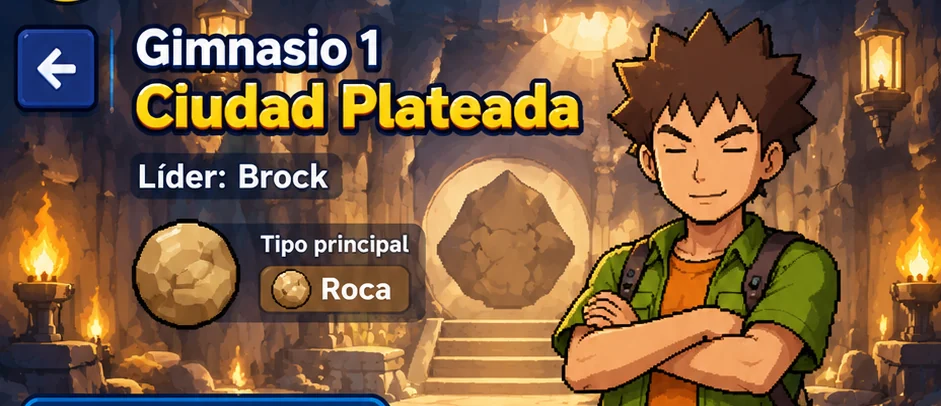
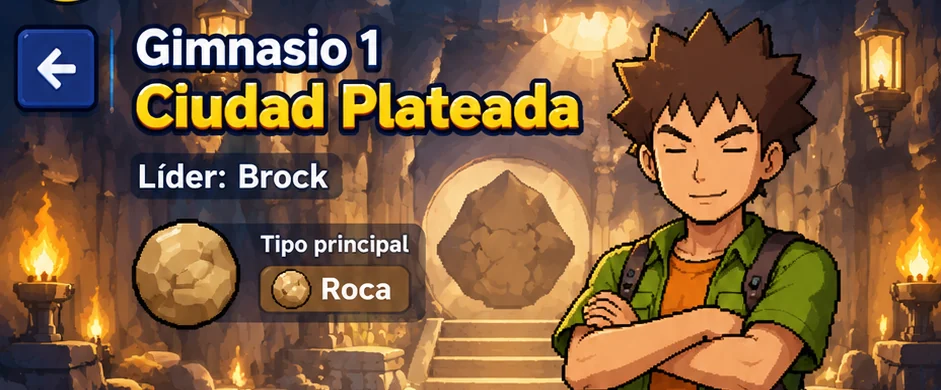
Portada calcada del diseño: nada superpuesto; solo se reescriben en su sitio los datos que cambian
- Ilustración intacta (pines, letrero, Entrar) con zonas táctiles invisibles
- Borrados y redibujados en el mismo lugar: medallas, barra, puntos de progreso de Brock y texto de Entrar
- Azulona con el mismo pin de candado del diseño
- Cielo para pantallas más altas; la ilustración nunca recorta los gimnasios

Claude-Session: https://claude.ai/code/session_016sqngmxqLz5nz8py6FyAyu

diff --git a/src/ui/screens/mapTab.ts b/src/ui/screens/mapTab.ts
@@ -29,6 +29,7 @@ const PINS: Record<string, [number, number]> = {
 };
 const box = (x: number, y: number, w: number, h: number) =>
   `left:${(x / ART.w) * 100}%;top:${(y / ART.h) * 100}%;width:${(w / ART.w) * 100}%;height:${(h / ART.h) * 100}%`;
+const dot = (cx: number, cy: number) => `left:${((cx - 6.5) / 193) * 100}%;top:${((cy - 6.5) / 200) * 100}%`;
 const at = (x: number, y: number) => `left:${(x / ART.w) * 100}%;top:${(y / ART.h) * 100}%`;
 
 export function renderMapTab(menu: MenuScreen): HTMLElement {
@@ -52,44 +53,51 @@ function renderHome(menu: MenuScreen, region: RegionDef): HTMLElement {
   const medals = (store.data.medals[region.id] ?? []).length;
   const next = region.gyms.find((g) => gymStatus(store, region, g) === 'available') ?? region.gyms.find((g) => gymStatus(store, region, g) === 'completed');
 
+  // Los pines dibujados en la ilustración se quedan tal cual; encima solo hay
+  // zonas táctiles invisibles. Si un gimnasio se desbloquea, su pin dibujado
+  // (con candado) se tapa con uno abierto.
   const pins = region.gyms.map((g) => {
     const st = gymStatus(store, region, g);
     const [x, y] = PINS[g.id] ?? [g.mapPos.x * ART.w, g.mapPos.y * ART.h];
     const open = st === 'available' || st === 'completed';
-    const city = g.id === 'brock' ? g.city : g.city.replace('Ciudad ', '');
-    if (open) {
+    const go = () => menu.go('gym', g.id);
+    if (g.id === 'brock') {
+      // Pin dibujado de Brock + sus puntos de progreso (redibujados en su sitio).
       const best = store.data.bestRoom[g.id] ?? 0;
       const rooms = roomSequence(store.data.settings.testMode);
-      const done = rooms.filter((r) => r <= best).length;
-      const boss = g.bosses[BALANCE.rooms.bossRoom];
-      return h('button', { class: `gpin open ${st} ${g.id === 'brock' ? 'baked' : ''}`, style: at(x, y), 'data-gym': g.id, onclick: () => menu.go('gym', g.id) },
-        // El retrato de Brock ya está en la ilustración; para los demás, su jefe.
-        h('span', { class: 'gpin-face' }, g.id !== 'brock' && boss ? pokeImg(BOSSES[boss].dex, 64) : null),
-        h('span', { class: 'gpin-name' }, city),
-        h('span', { class: 'gpin-dots' }, ...rooms.map((_, i) => h('i', { class: i < done ? 'on' : '' }))),
+      const lit = st === 'completed' ? 6 : Math.round((rooms.filter((r) => r <= best).length / rooms.length) * 6);
+      return h('button', { class: `hot ${st}`, style: box(205, 430, 193, 200), 'data-gym': g.id, 'aria-label': g.city, onclick: go },
+        ...[235, 260, 285, 312, 337, 362].map((cx, i) => h('i', { class: `bdot ${i < lit ? 'on' : ''}`, style: dot(cx - 205, 609 - 430) })),
       );
     }
-    return h('button', { class: 'gpin locked', style: at(x, y), 'data-gym': g.id, onclick: () => menu.go('gym', g.id) },
-      icon('lock', 30), h('span', {}, city));
+    if (open) {
+      const boss = g.bosses[BALANCE.rooms.bossRoom];
+      return h('button', { class: 'gpin open', style: at(x, y), 'data-gym': g.id, onclick: go },
+        h('span', { class: 'gpin-face' }, boss ? pokeImg(BOSSES[boss].dex, 64) : null),
+        h('span', { class: 'gpin-name' }, g.city.replace('Ciudad ', '')));
+    }
+    if (g.id === 'erika') {
+      // Azulona no está dibujada: mismo pin de candado que los demás.
+      return h('button', { class: 'drawn-lock', style: `${box(x - 55, y - 55, 110, 110)};background-image:url(ui/pin-locked.webp)`, 'data-gym': g.id, onclick: go },
+        h('span', {}, g.city.replace('Ciudad ', '')));
+    }
+    return h('button', { class: 'hot', style: box(x - 53, y - 52, 106, 104), 'data-gym': g.id, 'aria-label': g.city, onclick: go });
   });
 
   return h('div', { class: 'tab tab-home' },
     h('div', { class: 'home-stage' },
+      h('div', { class: 'home-sky', style: 'background-image:url(ui/home-sky.webp)' }),
       h('div', { class: 'home-art' },
         h('img', { class: 'home-img', src: 'ui/home-kanto.webp', alt: '', draggable: 'false' }),
-        h('h1', { class: 'sr-only' }, 'Pokécero'),
+        h('h1', { class: 'sr-only' }, `Pokécero · ${region.name}`),
+        // Letrero de la región: el texto y la barra de medallas, en su sitio exacto.
+        h('span', { class: 'medal-text', style: at(137, 291) }, `Medallas ${medals}/8`),
+        h('span', { class: 'medal-bar', style: box(137, 329, 214, 16) }, ...region.gyms.map((_, i) => h('i', { class: i < medals ? 'on' : '' }))),
         ...pins,
         next
-          ? h('button', { class: 'cta home-cta', style: box(245, 1110, 452, 140), 'data-testid': 'enter', onclick: () => menu.go('gym', next.id) },
-            h('span', { class: 'cta-main' }, 'Entrar'), h('span', { class: 'cta-sub' }, `${next.order}. ${next.city}`), h('span', { class: 'cta-arrow' }, '▶'))
+          ? h('button', { class: 'hot cta-hot', style: box(245, 1110, 452, 140), 'data-testid': 'enter', onclick: () => menu.go('gym', next.id) },
+            h('span', { class: 'cta-t1' }, 'Entrar'), h('span', { class: 'cta-t2' }, `${next.order}. ${next.city}`))
           : null,
-      ),
-      // Fuera de la ilustración: así no se corta si la pantalla es estrecha
-      // (tapa el letrero dibujado, que queda en el mismo sitio).
-      h('div', { class: 'region-pill2' },
-        icon('pokeball', 54),
-        h('span', { class: 'rp-text' }, h('b', {}, region.name), h('small', {}, `Medallas ${medals}/8`),
-          h('span', { class: 'rp-bar' }, ...region.gyms.map((_, i) => h('i', { class: i < medals ? 'on' : '' })))),
       ),
     ),
   );
@@ -138,7 +146,7 @@ function renderGym(menu: MenuScreen, region: RegionDef, gym: GymDef): HTMLElemen
       const claimed = isClaimed(store, gym.id, Number(room));
       return h('div', { class: `stop2 ${best >= Number(room) ? 'beaten' : ''}` },
         h('span', { class: 'stop2-room' }, `Sala ${room}`),
-        h('span', { class: 'stop2-mon' }, animatedPokemon(def.dex, 96, { dir: 0 })),
+        h('span', { class: 'stop2-mon' }, pokeImg(def.dex, 84)),
         h('span', { class: 'stop2-name' }, def.name),
         h('span', { class: 'stop2-ped' }),
         h('span', { class: `stop2-reward ${claimed ? 'claimed' : ''}` }, h('small', {}, 'Recompensa'),

diff --git a/src/ui/menu.css b/src/ui/menu.css
@@ -785,3 +785,44 @@
 .pk-left { margin: 0; padding: 0; background: none !important; }
 .pk-stage { height: 168px; border-radius: 14px; overflow: hidden; background-size: cover; background-position: 50% 85%; border: 2px solid #3a5ad8; }
 .pk-sprite { margin-bottom: 18px; }
+
+/* v0.4c: portada calcada del diseño. 1 px de la ilustración = 100cqw / 941. */
+.home-art { --px: calc(100cqw / 941); }
+.hot { position: absolute; padding: 0; border: none; background: none; color: inherit; font-family: var(--m-body); }
+.hot:focus-visible { outline: 3px solid #fff; outline-offset: 2px; border-radius: 12px; }
+.medal-text { position: absolute; font: 800 calc(31 * var(--px)) / 1 var(--m-body); color: #45d4f8; white-space: nowrap; pointer-events: none; }
+.medal-bar { position: absolute; display: flex; gap: calc(3 * var(--px)); pointer-events: none; }
+.medal-bar i { flex: 1; border-radius: calc(6 * var(--px)); background: #142446; box-shadow: inset 0 0 0 calc(2 * var(--px)) #060d22; }
+.medal-bar i.on { background: linear-gradient(#8aff6a, #2fc23a); box-shadow: inset 0 0 0 calc(2 * var(--px)) #0d4a12; }
+.bdot { position: absolute; width: 6.7%; height: 6.5%; border-radius: 50%; background: radial-gradient(circle at 40% 35%, #a8adbb, #5a6070); }
+.bdot.on { background: radial-gradient(circle at 40% 35%, #fff2a0, #f5b800); box-shadow: 0 0 calc(4 * var(--px)) #ffd23a; }
+.cta-hot .cta-t1, .cta-hot .cta-t2 { position: absolute; left: 0; right: calc(30 * var(--px)); text-align: center; pointer-events: none; }
+.cta-t1 { top: 11.9%; font: 900 calc(52 * var(--px)) / 1 var(--m-body); color: #120d00; }
+.cta-t2 { top: 57.4%; font: 600 calc(28 * var(--px)) / 1 var(--m-body); color: #1d1200; }
+.cta-hot:active { transform: translateY(calc(4 * var(--px))); }
+.drawn-lock { position: absolute; padding: 0; border: none; background: url('/ui/pin-locked.webp') center / 100% 100%; }
+.drawn-lock span { position: absolute; left: 0; right: 0; top: 60%; font: 800 calc(21 * var(--px)) / 1 var(--m-body); color: #fff; text-align: center; }
+.home-art { left: 0; transform: translateY(-50%); }
+.gym-head.art img { aspect-ratio: 941 / 390; }
+.menu .menu-content { scrollbar-width: none; }
+.menu .menu-content::-webkit-scrollbar { display: none; }
+.stop2-mon { height: 90px; display: grid; place-items: end center; }
+.stop2-mon img { width: 84px; height: 84px; filter: drop-shadow(0 4px 2px rgba(0, 0, 0, 0.4)); }
+.track2-line { top: 84px; }
+/* Portada: ilustración a todo el ancho, pegada abajo; si la pantalla es más alta, sigue su cielo. */
+.home-stage { background: #0055b9 var(--home-bg) bottom center / 100% auto no-repeat; }
+.home-art { left: 0; right: 0; top: auto; bottom: 0; transform: none; width: 100cqw; height: auto; aspect-ratio: 941 / 1375; }
+
+.home-art { margin-bottom: 0; }
+.home-stage { background-position: center calc(100% - min(100cqh, 100cqw * 1375 / 941) + 1px); }
+
+/* Portada (final): columna con el cielo arriba (si sobra alto) y la ilustración abajo. */
+.home-stage { display: flex; flex-direction: column; justify-content: flex-end; background: #0055b9; }
+.home-sky { flex: 1 1 auto; min-height: 0; background-size: 100% auto; background-position: bottom center; background-repeat: no-repeat; }
+.home-art { position: relative; left: auto; right: auto; bottom: auto; top: auto; transform: none; flex: none; width: 100%; }
+/* Si sobra alto, la ilustración crece hasta un 15 % (recortando un poco los lados, nunca los gimnasios) y el resto es cielo. */
+.home-stage { align-items: center; }
+.home-art { width: clamp(100cqw, calc(100cqh * 941 / 1375), 115cqw); }
+.home-stage { align-items: flex-start; }
+.home-art { width: clamp(100cqw, calc(100cqh * 941 / 1375), 113cqw); }
+.home-sky { background-size: cover; }
